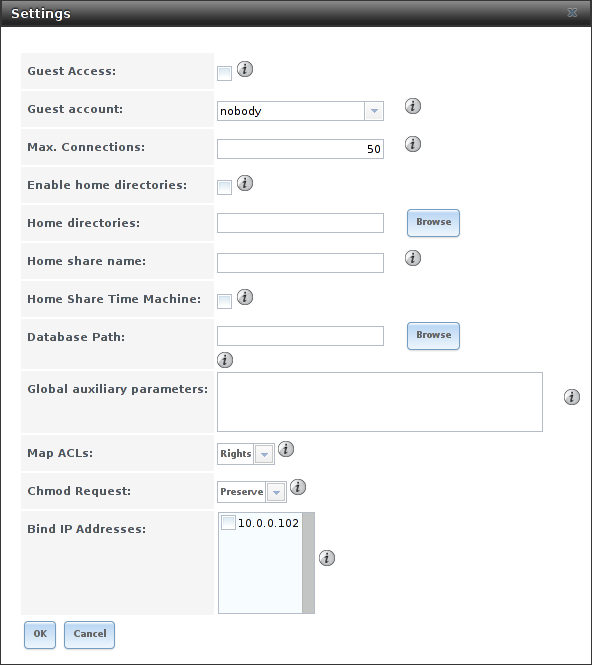
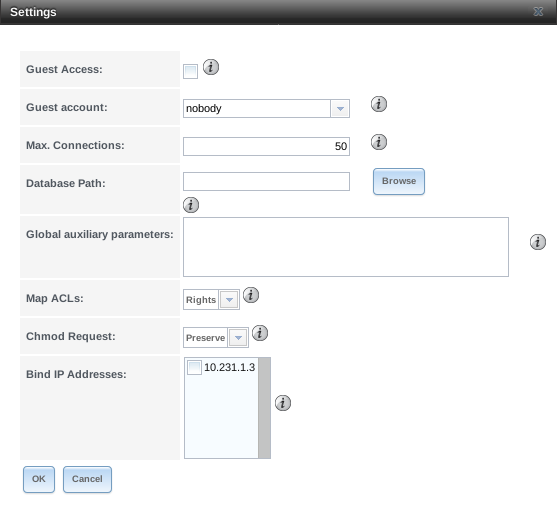
Update FreenAS screenshot for AFP services and move old screenshot for use by TrueNAS. For some reason, the 4 rows in the table that only apply to TrueNAS are not appearing. Ticket: #9053

diff --git a/userguide/services.rst b/userguide/services.rst
@@ -118,10 +118,16 @@ which are described in
 
 .. _global_afp_config_fig:
 
+#ifdef freenas
 .. figure:: images/services-afp.png
 
    Global AFP Configuration
+#endif freenas
+#ifdef truenas
+.. figure:: images/tn_services-afp.png
 
+   Global AFP Configuration
+#endif truenas
 
 .. tabularcolumns:: |>{\RaggedRight}p{\dimexpr 0.16\linewidth-2\tabcolsep}
                     |>{\RaggedRight}p{\dimexpr 0.20\linewidth-2\tabcolsep}
@@ -146,6 +152,18 @@ which are described in
    | Max Connections         | integer        | Maximum number of simultaneous connections.                                                                     |
    |                         |                |                                                                                                                 |
    +-------------------------+----------------+-----------------------------------------------------------------------------------------------------------------+
+   #ifdef truenas
+   | Enable home directories | checkbox       | If checked, any user home directories located under :guilabel:`Home directories` will be available over the     |
+   |                         |                | share.                                                                                                          |
+   +-------------------------+----------------+-----------------------------------------------------------------------------------------------------------------+
+   | Home directories        | browse button  | Select the volume or dataset which contains user home directories.                                              |
+   +-------------------------+----------------+-----------------------------------------------------------------------------------------------------------------+
+   | Home share name         | string         | Overrides default home folder name with the specified value.                                                    |
+   +-------------------------+----------------+-----------------------------------------------------------------------------------------------------------------+
+   | Home Share Time Machine | checkbox       | When checked, enables Time Machine lock stealing. Apple recommends that shares designated for Time Machine      |
+   |                         |                | backups be used exclusively for Time Machine backups.                                                           |
+   +-------------------------+----------------+-----------------------------------------------------------------------------------------------------------------+
+   #endif truenas
    | Database Path           | browse button  | Sets the database information to be stored in the path. Default is the root of the volume. The path must be     |
    |                         |                | writable even if the volume is read only.                                                                       |
    |                         |                |                                                                                                                 |
